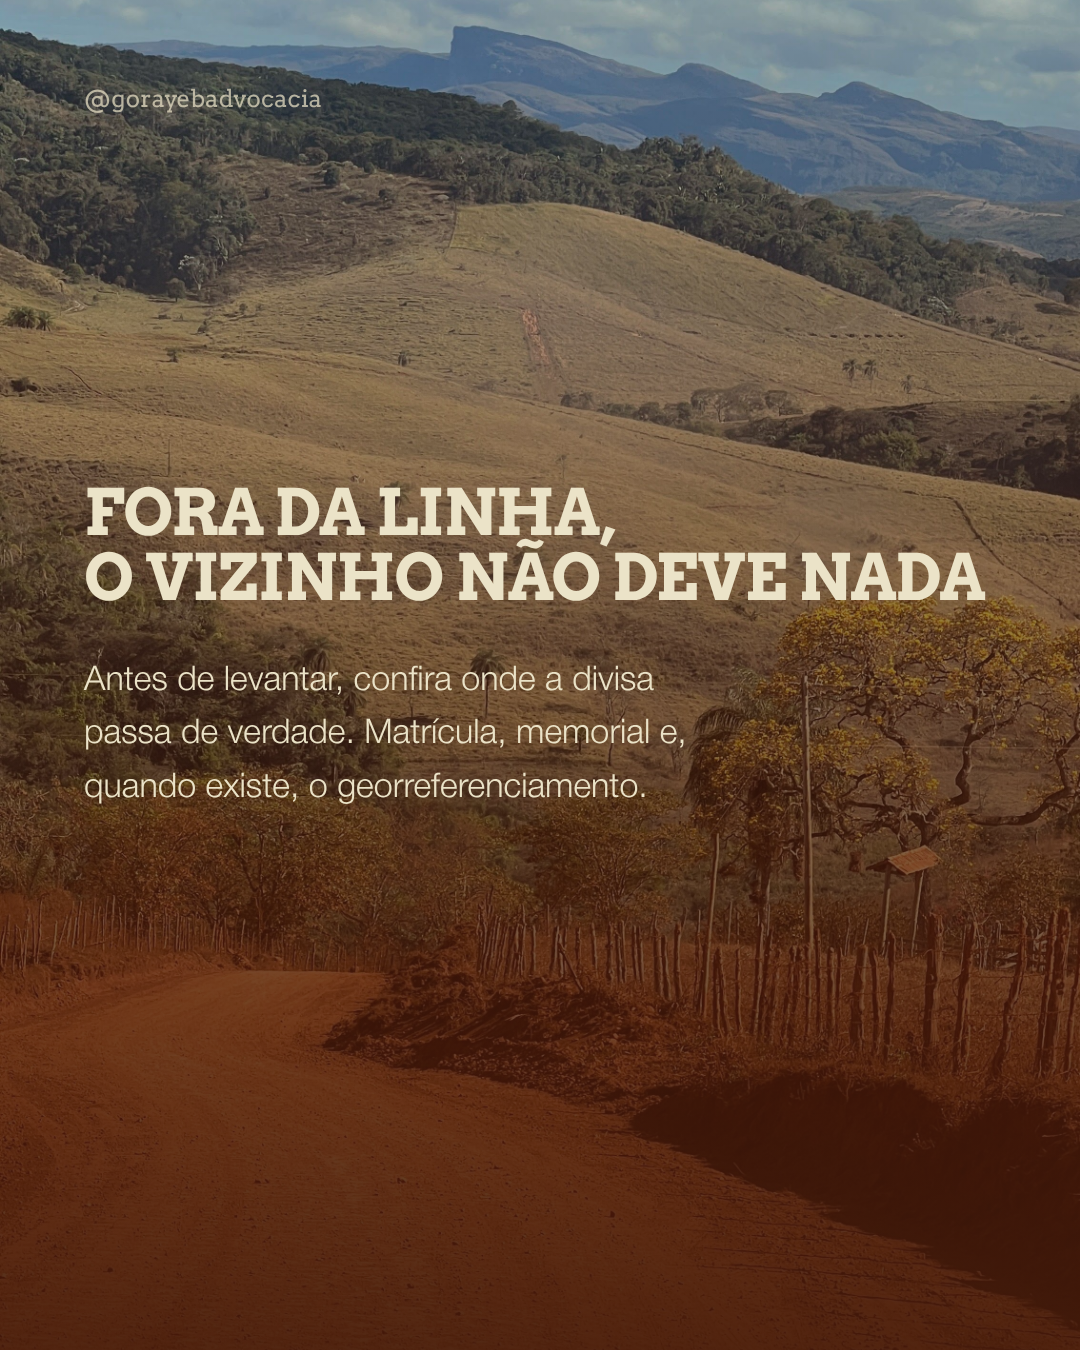
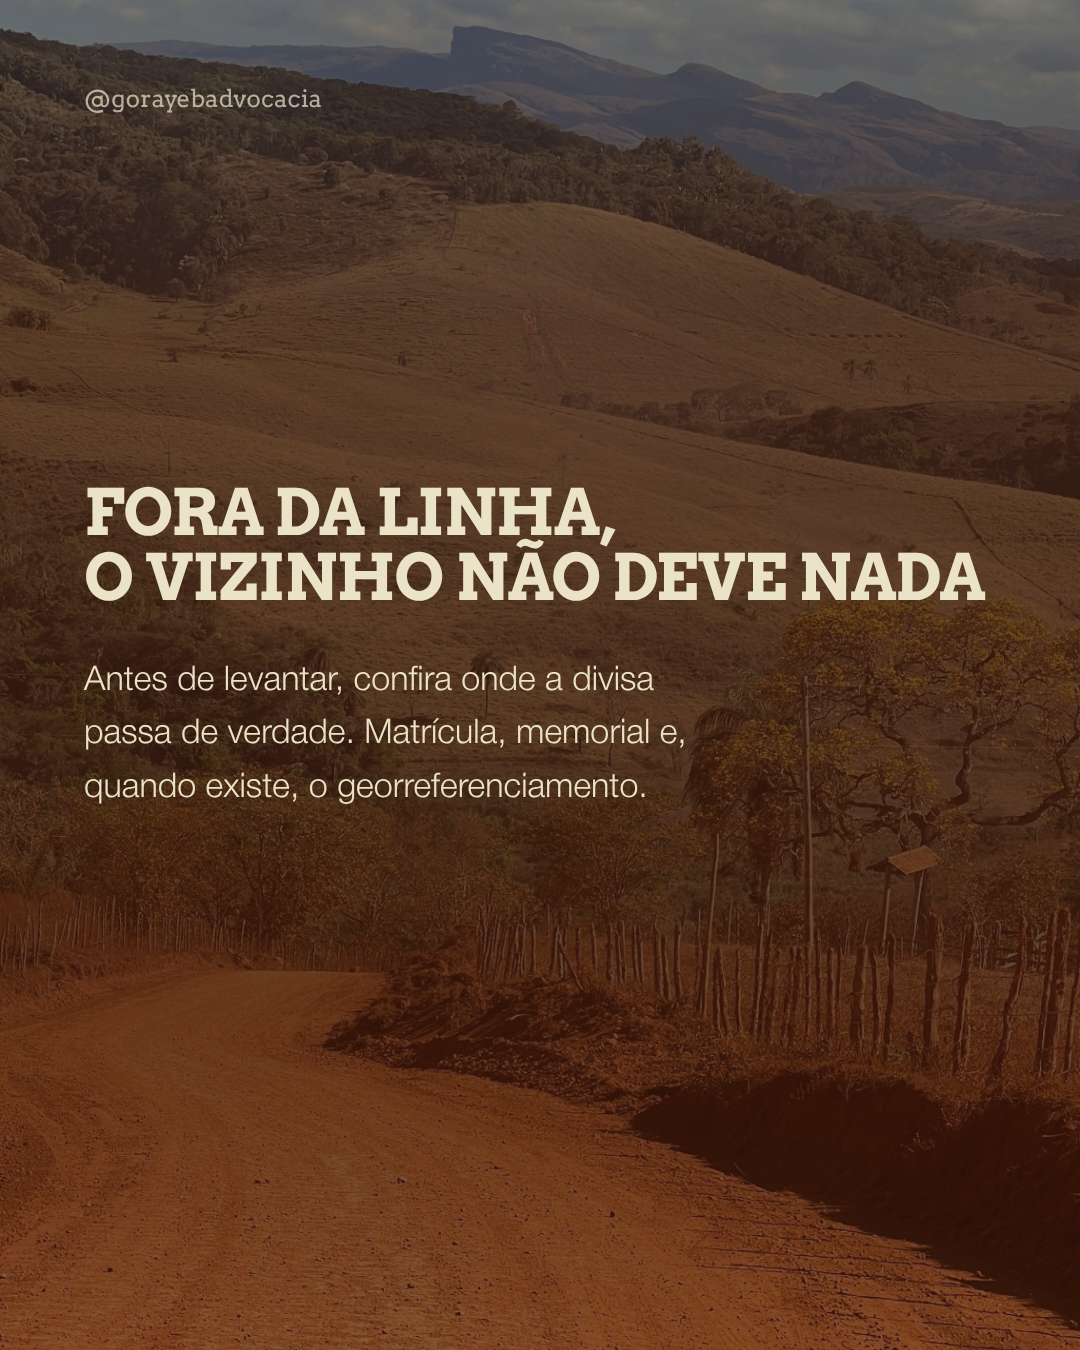
Carrossel das disputas com cooperativas (29/10)
Item 20 do calendário, pilar de crédito rural. Oito slides no registro
longo: ato cooperativo e o afastamento do CDC, tabela de cliente ×
cooperado, crédito de ato cooperado fora da recuperação judicial, as
cinco frentes onde a briga nasce, a assembleia como foro da prestação
de contas, o que juntar e o fecho no estatuto.

O teto de 1% ao mês da lei de usura ficou fora da arte: a jurisprudência
é dividida, com julgado equiparando a cooperativa de crédito a
instituição financeira. Foi pra legenda com a ressalva.

Template: `foto-texto` sobre foto ganhou véu próprio, mais fechado na
faixa do meio, que é onde o texto cai. O véu padrão só fechava no pé e
deixava o parágrafo brigando com a imagem. Rerenderizados os slides
afetados da cerca, da pecuária e da recuperação judicial.

Regra nova no formato 01: close de rosto identificável vindo de banco de
imagem não entra. Duas fotos desta peça foram trocadas por isso.

Claude-Session: https://claude.ai/code/session_01PNm9HeejNLCDTQ5J6fF2k9

diff --git a/docs/gorayeb/template/base.css b/docs/gorayeb/template/base.css
@@ -85,6 +85,12 @@
   background: linear-gradient(180deg, rgba(20,28,16,.70) 0%, rgba(20,28,16,.80) 42%, rgba(20,28,16,.88) 100%); }
 .veu-marrom { position: absolute; inset: 0; z-index: 0;
   background: linear-gradient(180deg, rgba(67,26,10,.25) 0%, rgba(67,26,10,.55) 45%, rgba(67,26,10,.92) 100%); }
+/* foto-texto sobre foto: o texto ocupa a faixa do meio, então o véu tem que
+   fechar ali em cima, não só no pé */
+.slide.foto-texto .veu-verde {
+  background: linear-gradient(180deg, rgba(20,28,16,.55) 0%, rgba(20,28,16,.78) 24%, rgba(20,28,16,.80) 70%, rgba(20,28,16,.64) 100%); }
+.slide.foto-texto .veu-marrom {
+  background: linear-gradient(180deg, rgba(58,24,10,.52) 0%, rgba(58,24,10,.76) 24%, rgba(58,24,10,.78) 70%, rgba(58,24,10,.62) 100%); }
 .veu-topo   { position: absolute; inset: 0; z-index: 0;
   background: linear-gradient(180deg, rgba(20,28,16,.94) 0%, rgba(20,28,16,.78) 32%, rgba(20,28,16,.30) 58%, rgba(20,28,16,.52) 100%); }
 

diff --git a/docs/gorayeb/diario.md b/docs/gorayeb/diario.md
@@ -8,7 +8,7 @@ Atualizo isso a cada entrega ou decisão nova.
 | | |
 | --- | --- |
 | **Formato padrão** | 01, escrito em `formato-01.md` |
-| **Peças prontas** | 3 carrosséis, nenhum publicado ainda |
+| **Peças prontas** | 5 carrosséis + 1 estático. Publicado: escala 6x1 (16/10) |
 | **Pendente com o Victor** | licença das fotos do Pinterest |
 | **Em aberto** | autorização da ABCZ pra retrato de pioneiro |
 
@@ -45,6 +45,24 @@ ninguém estava contando.
 
 Arquivo: `carrosseis/fim-da-escala-6x1.json`
 Status: **entregue**, aguardando revisão. Falta conferir licença de 5 fotos.
+
+### 6. Disputas com cooperativas
+
+8 slides pro 29/10, item 20 do calendário. Registro longo. O gancho é que o
+cooperado não é cliente: a operação é ato cooperativo (art. 79 da Lei 5.764/71),
+então o STJ afasta o CDC. Daí sai a tabela de cliente × cooperado, a tese de que
+crédito de ato cooperado fica fora da recuperação judicial (STJ, 3ª Turma, 2024,
+que amarra com o carrossel do dia 22), as cinco frentes onde a briga nasce, a
+assembleia como único lugar onde a voz do cooperado pesa, o que juntar e o fecho
+no estatuto.
+
+Ficou **fora da arte** o teto de 1% ao mês da lei de usura. Tem julgado do STJ
+aplicando o limite às cooperativas de crédito, mas o entendimento não é pacífico:
+há decisão equiparando a cooperativa a instituição financeira. Foi pra legenda
+com a ressalva.
+
+Arquivo: `carrosseis/disputas-cooperativas.json`
+Status: **entregue**, aguardando revisão. Falta conferir licença de 4 fotos.
 
 ## Calendário editorial
 
@@ -197,3 +215,22 @@ Tipos de slide, figuras e ícones estão na tabela do `README.md`.
   com o conteúdo; a rosca de 96,6% virou `blocos`, porque anel quase fechado não
   informa nada; e o título da chapa passou a correr numa linha só, com o corpo
   cedendo conforme o tamanho da frase.
+
+**18/10/2026**
+
+- Carrossel das disputas com cooperativas, pro 29/10.
+- Troquei duas fotos depois de olhar o render: a assembleia e a roda de produtores
+  tinham rosto identificável em primeiro plano, e foto de Pinterest com gente
+  reconhecível num post comercial é risco que não vale. Entraram uma assembleia
+  vista de longe, sob a mangueira, e o saco de café subindo no caminhão.
+- **Regra nova no template:** `foto-texto` sobre foto ganhou véu próprio, mais
+  fechado na faixa do meio, que é onde o texto cai. O véu padrão só fecha no pé e
+  deixava o parágrafo brigando com a foto. Melhorou também o slide 7 da
+  recuperação judicial.
+- Descoberta pra conferir: `img/cafezal-minas.png` tem cara de IA (fileira
+  perfeita demais, duas casas quase iguais, luz sem direção). Não está em peça
+  nenhuma, só no arquivo de teste. Melhor apagar.
+- Pendência que vem de antes: o `corpo-foto` é o único slide sem o
+  @gorayebadvocacia no topo, porque a chapa não deixa lugar pra ele em cima da
+  foto. Está assim desde a cerca e passou em três revisões. Se o Victor quiser,
+  dá pra jogar o arroba pra dentro da chapa.

diff --git a/docs/gorayeb/formato-01.md b/docs/gorayeb/formato-01.md
@@ -26,6 +26,8 @@ Cada uma veio de um pedido dele na revisão. Não voltar atrás sem ele mandar.
 | **Fecho** | Honra quem faz, não vende serviço. A chamada pede marcação, que puxa mais comentário que pergunta. |
 | **Título de chapa** | Uma linha só, no `corpo-foto`. O `\n` no JSON marca onde começa o itálico, não quebra linha. Se não couber, encurtar o título. |
 | **Tamanho** | 5 a 7 slides no padrão. Até 10 quando a pauta é técnica e pede texto corrido, como mudança de lei. |
+| **Véu sobre foto** | O `foto-texto` leva véu próprio, mais fechado na faixa do meio. O véu padrão fecha só no pé e deixa o parágrafo brigando com a imagem. |
+| **Rosto em foto de banco** | Close de gente identificável não entra. Foto de Pinterest com rosto reconhecível em post comercial é risco sem retorno. Multidão de longe, de costas ou em contraluz, pode. |
 | **Barra de progresso** | **Não usar.** Existe no template (`progresso: true`), mas ficou de fora por decisão do Victor. |
 
 ## A capa
